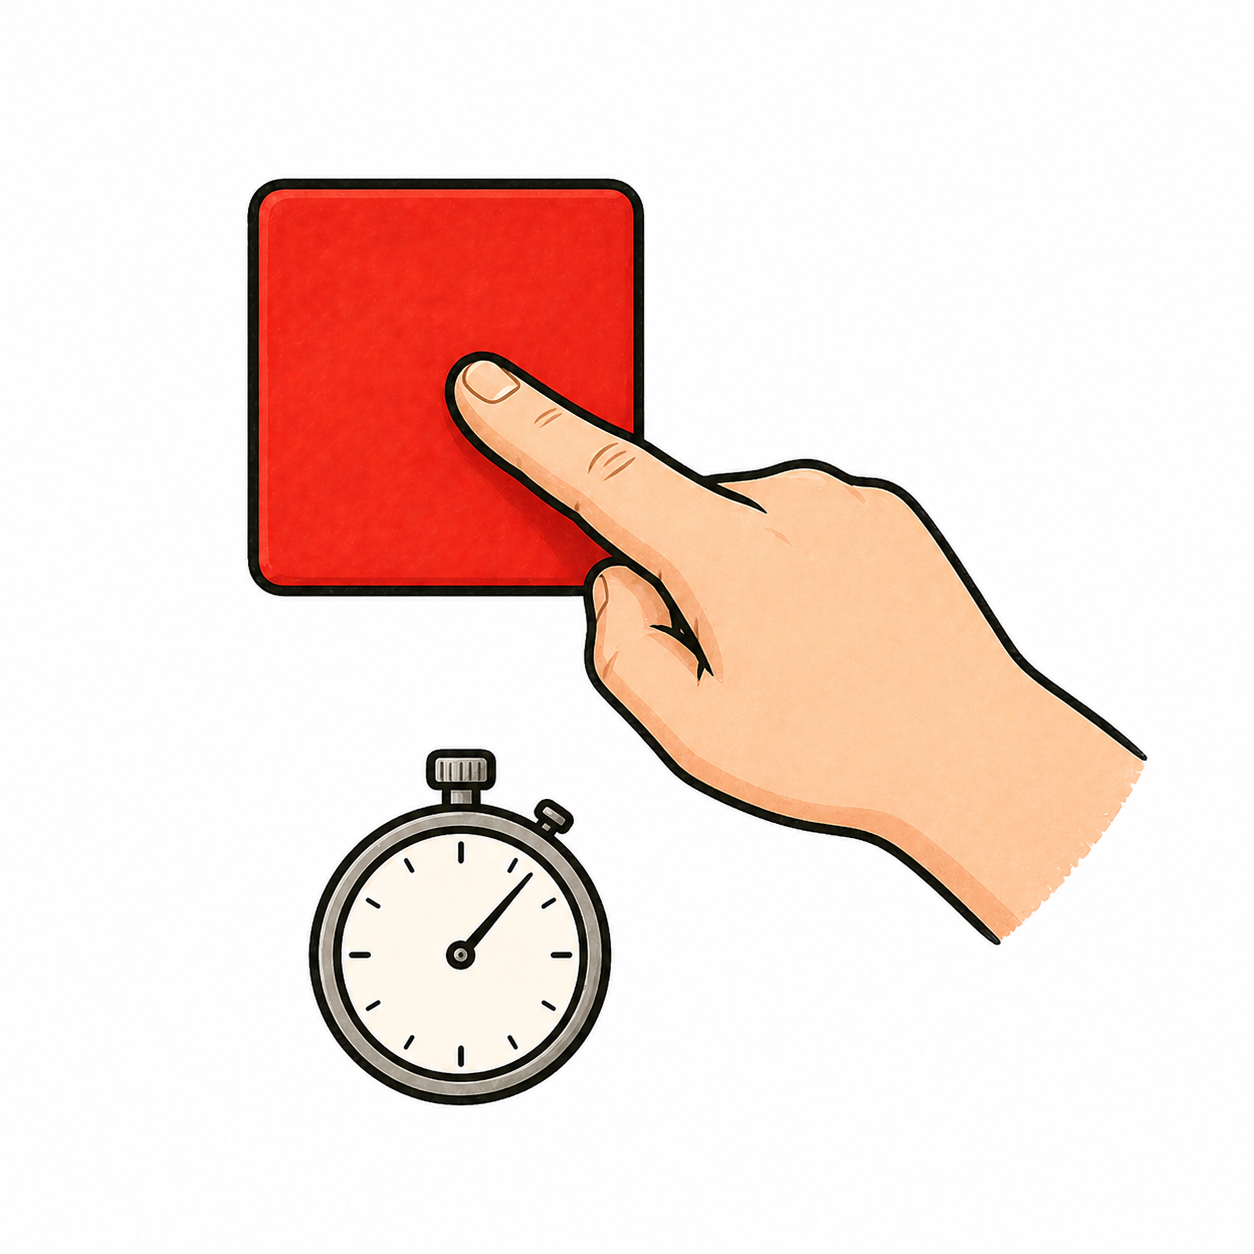
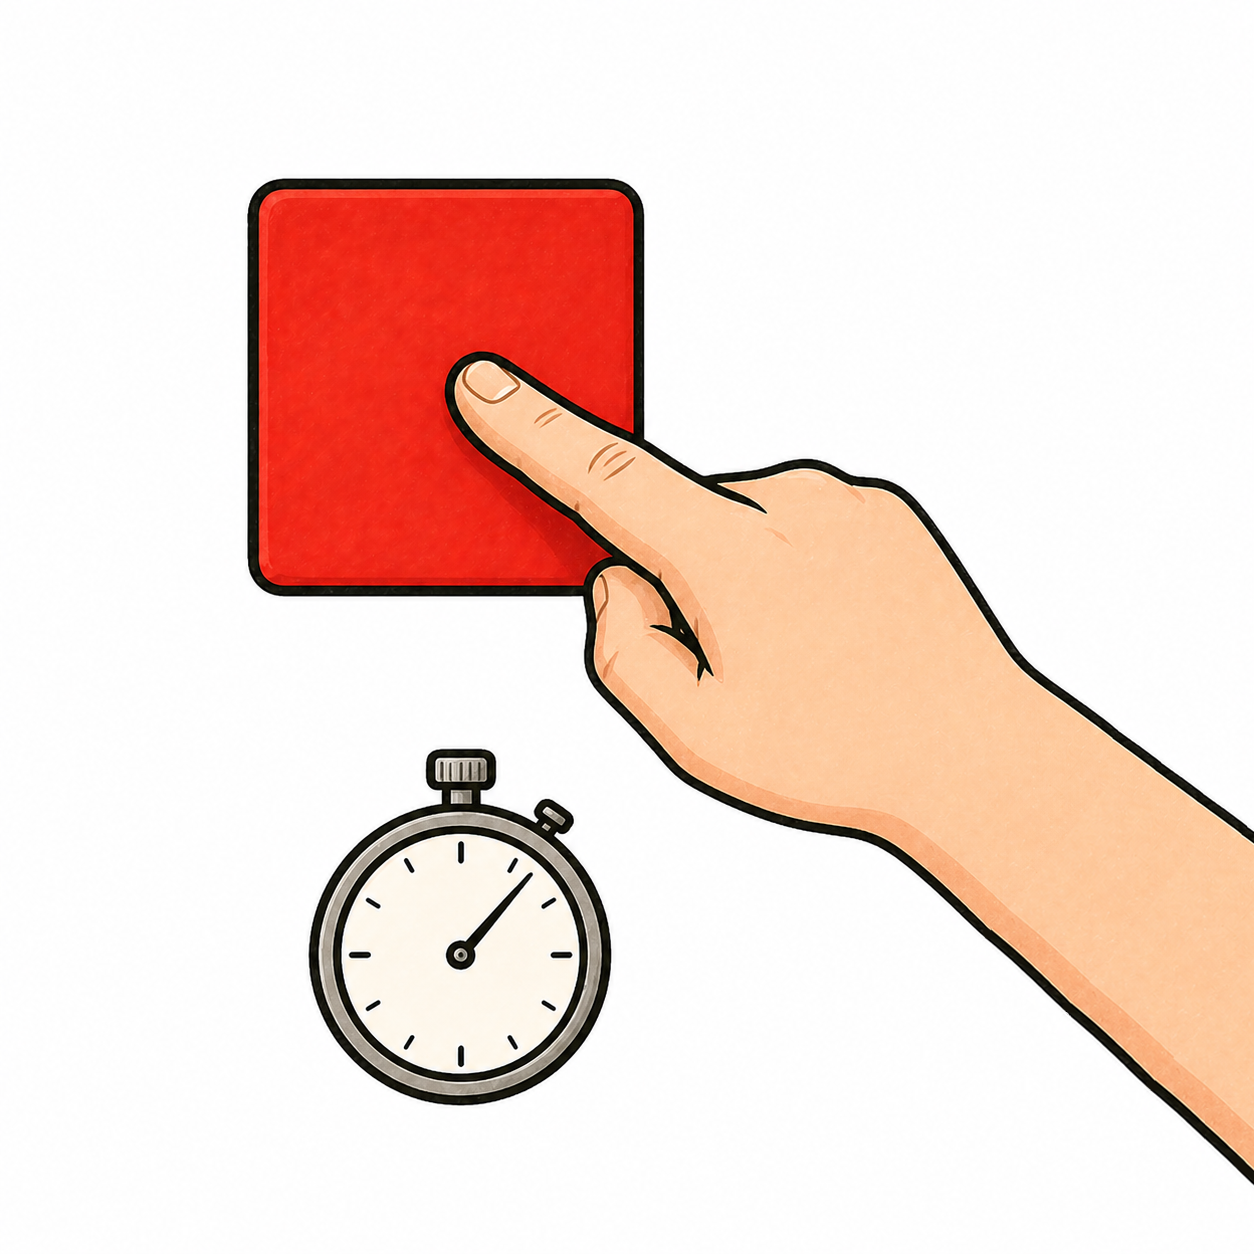
valasztas kep design

Changed region(s): [[0.7775, 0.5909, 1.0, 0.9641]]

diff --git a/fooldal.html b/fooldal.html
@@ -12,10 +12,10 @@
         <h1 id="cim">Játék kiválasztása</h1>
         <div class="row justify-content-center align-items-center g-4 Valasztas">
                 <div class="col-6 col-md-4 col-lg-3">
-                    <img src="IMG/Fooldal/dobokockaValasztas.png" class="img-fluid" alt="Dobókocka játék" title="Dobókocka játék">
+                    <img src="IMG/Fooldal/dobokockaValasztas.png" class="img-fluid asd" alt="Dobókocka játék" title="Dobókocka játék">
                 </div>
                 <div class="col-6 col-md-4 col-lg-3">
-                    <img src="IMG/Fooldal/kinevetavegen.png" class="img-fluid" alt="Ki nevet a végén?" title="Ki nevet a végén?">
+                    <img src="IMG/Fooldal/kiNevetAVegen.png" class="img-fluid asd" alt="Ki nevet a végén?" title="Ki nevet a végén?">
                 </div>
         </div>
     </div>

diff --git a/CSS/fooldal.css b/CSS/fooldal.css
@@ -2,9 +2,17 @@
     text-align: center;
     font-size: 30px;
 }
+
 .Valasztas{
     display: flex;
     justify-content: center;
     gap: 200px;
     padding-top: 150px;
+}
+
+.asd{
+    border-color: black;
+    border-width: 2px;
+    border-style: solid;
+    border-radius: 4px;
 }
